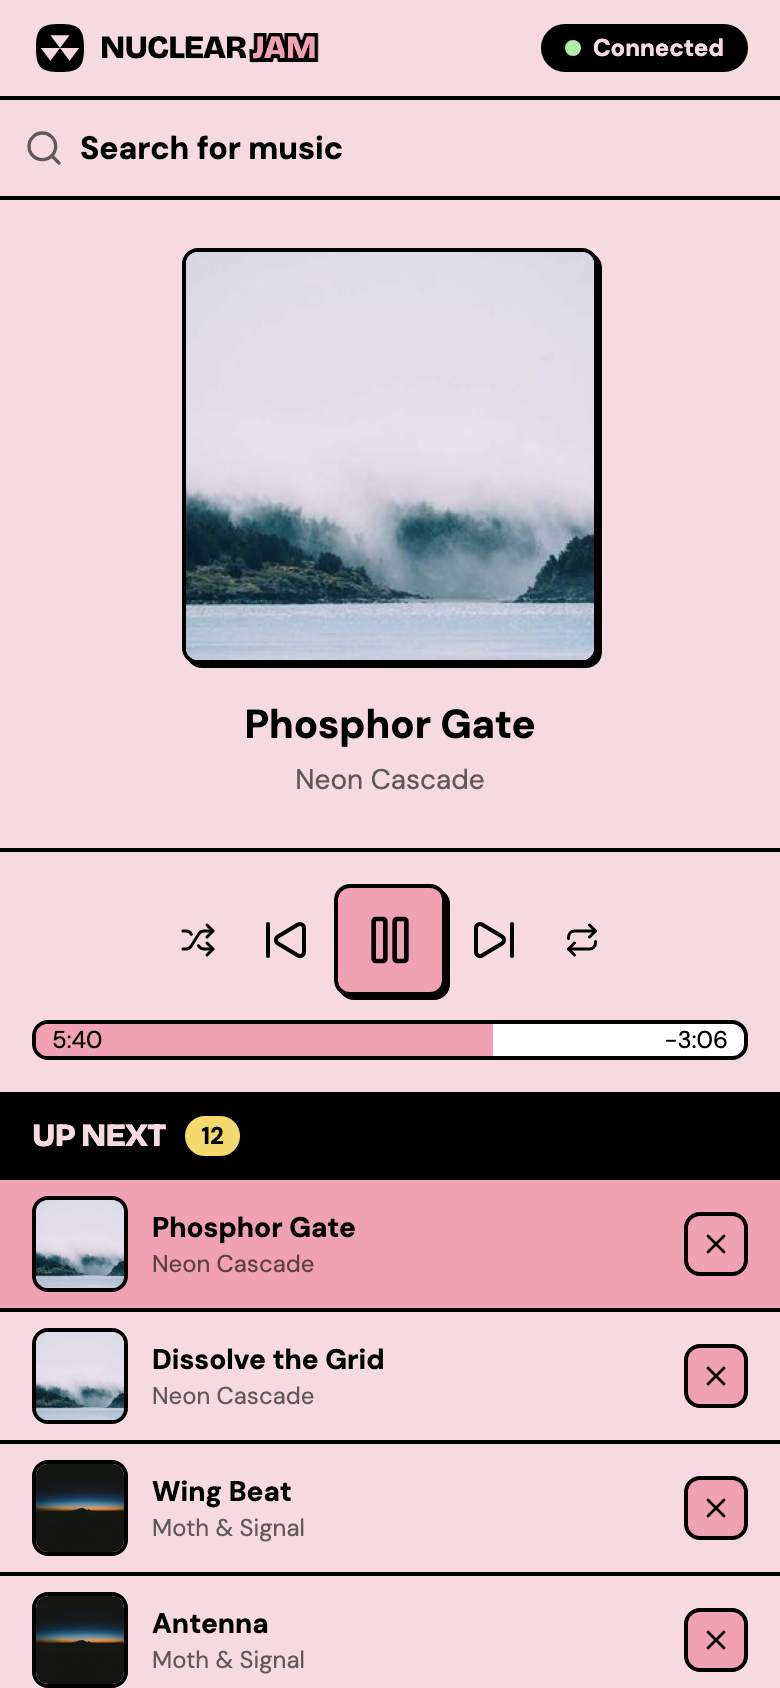
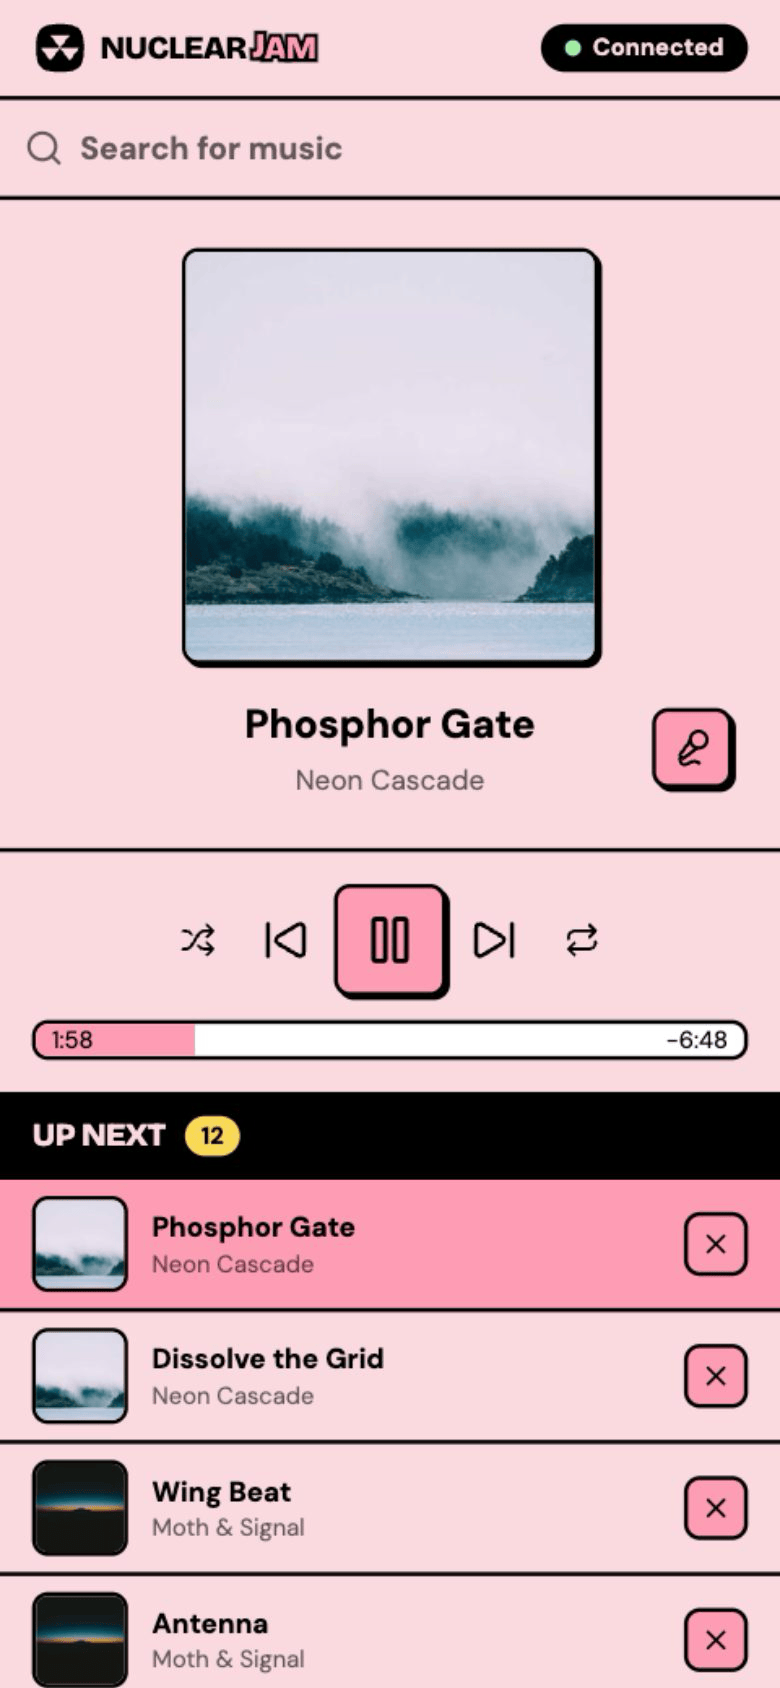
Updated screenshots

diff --git a/packages/docs/user-manual/remote-control.md b/packages/docs/user-manual/remote-control.md
@@ -60,6 +60,8 @@ Click (or tap) a track to add it to the queue. The drawer will close after addin
 
 To open the lyrics page, tap the microphone button next to the title of the current track. The lyrics fill the screen. To go back to the main screen, tap the back arrow at the top of the page, or use the back button of your phone.
 
+<figure><img src="../.gitbook/assets/jam-lyrics.png" alt="The lyrics page on a phone, with word-synced lyrics and the current line highlighted" width="300"><figcaption><p>Lyrics on the remote</p></figcaption></figure>
+
 The remote gets the lyrics from the lyrics plugins in Nuclear, so you must install at least one lyrics plugin in Nuclear. The lyrics page works like the Lyrics view in Nuclear. It shows the same types of lyrics, and you can tap a line to jump to it, switch to a different source, and fix the timing of synced lyrics. For more information, see [Lyrics](../core-concepts/lyrics.md).
 
 The lyrics page is different from the Lyrics view in these ways:
